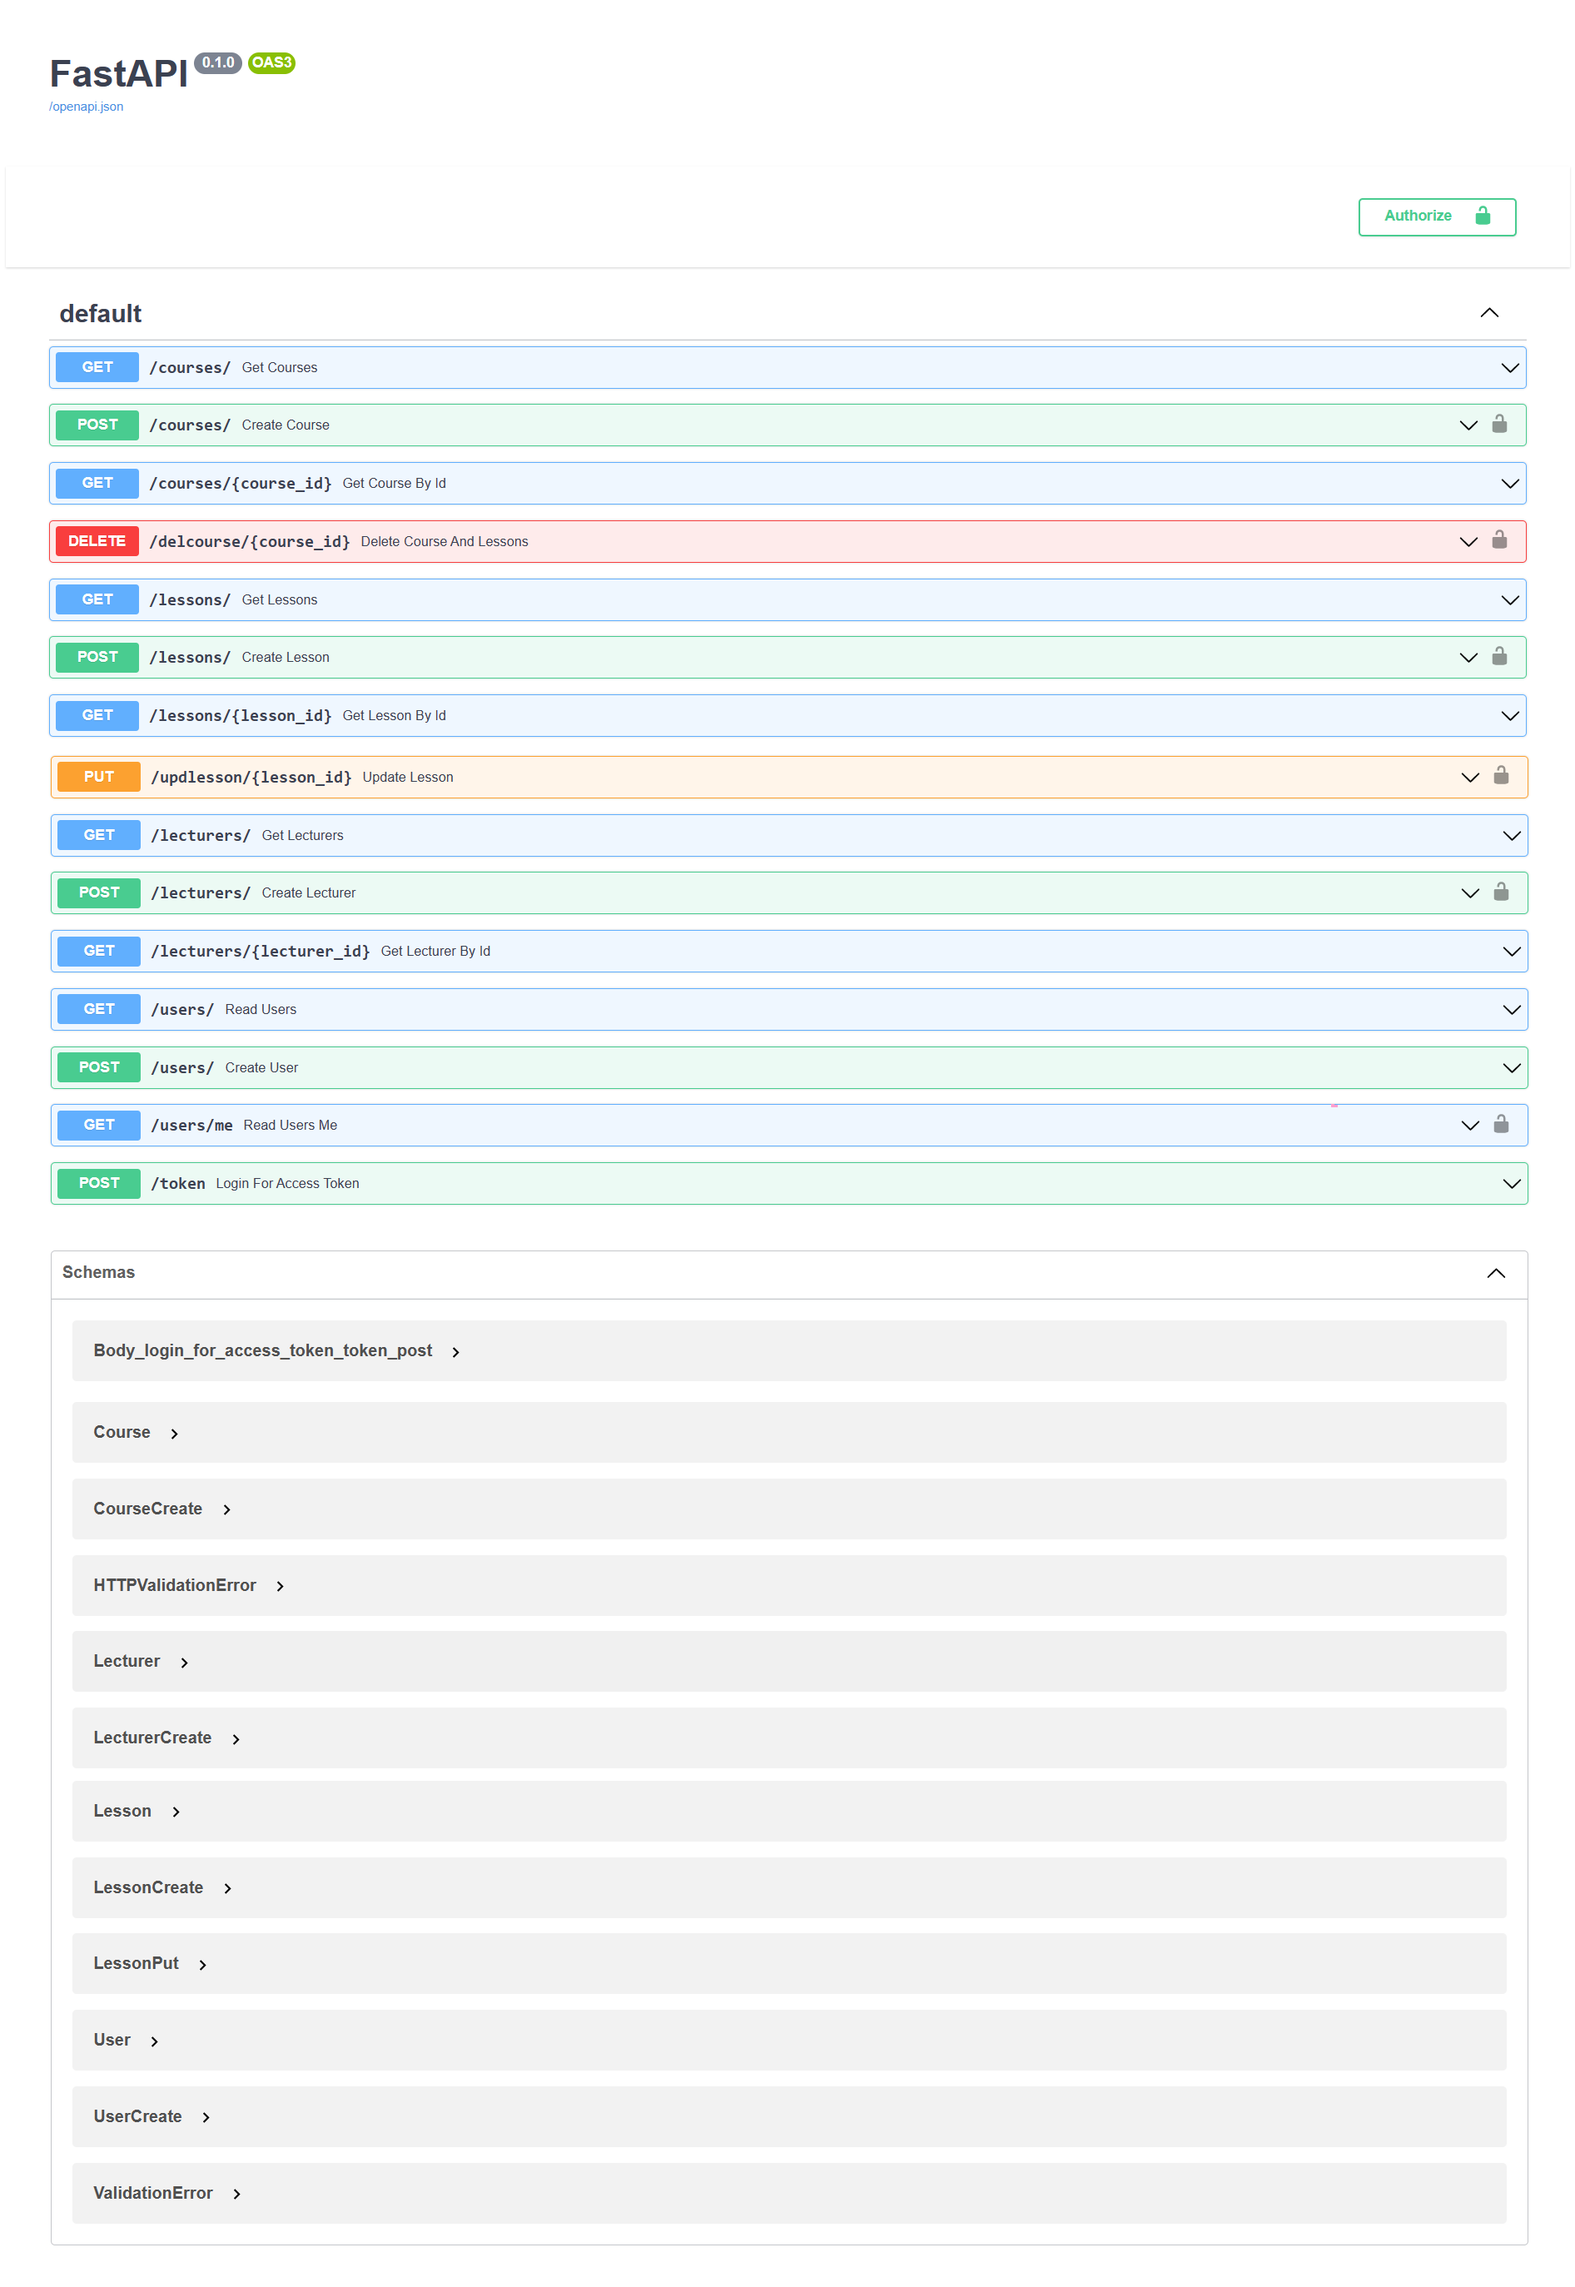
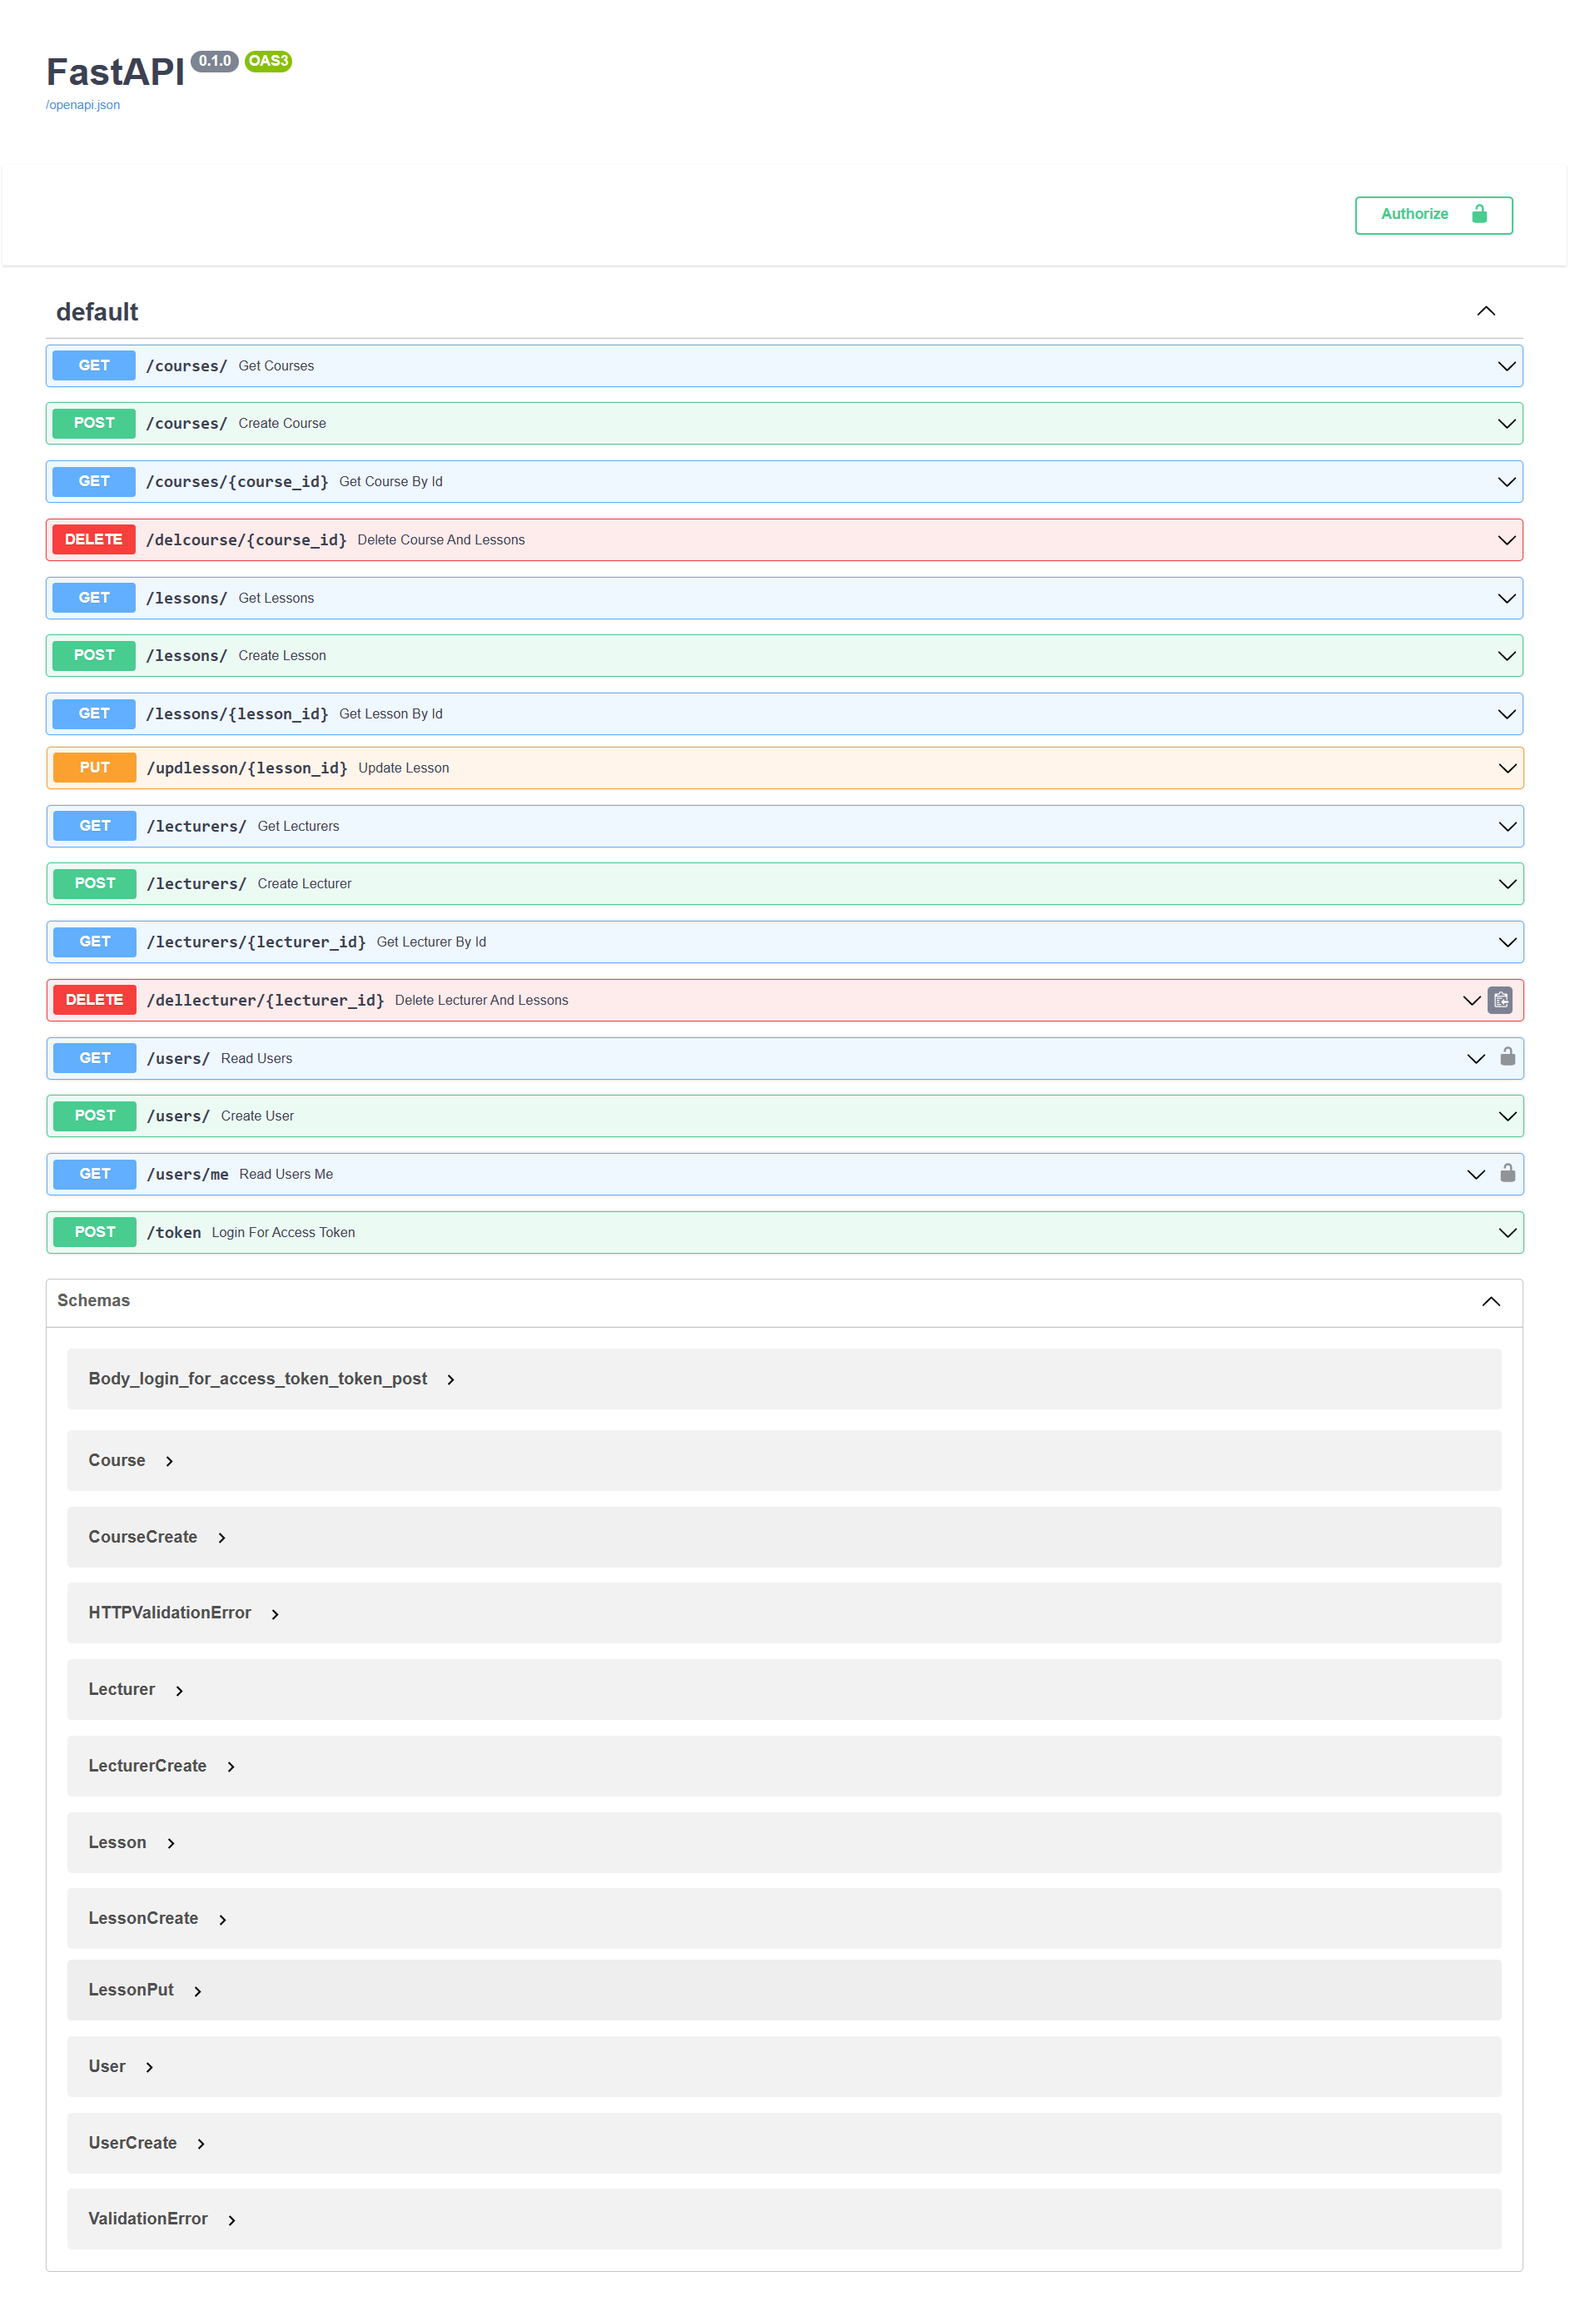
added tests with pytest + extra screenshots

diff --git a/myproject/test_main.py b/myproject/test_main.py
@@ -1,0 +1,189 @@
+import time
+
+import requests
+import json
+
+
+# ------------------- TEST GET - REQUESTS -----------------------
+def test_get_courses():
+    response = requests.get('http://127.0.0.1:8000/courses')
+    assert response.status_code == 200
+
+
+def test_get_courses_with_id():
+    response = requests.get('http://127.0.0.1:8000/courses/1')
+    assert response.status_code == 200
+    response_dict = response.json()
+    assert type(response_dict["name_course"]) == str
+    assert type(response_dict["lessons"]) == list
+
+
+def test_get_courses_with_wrong_id():
+    response = requests.get('http://127.0.0.1:8000/courses/999')
+    assert response.status_code == 404
+    response_dict = response.json()
+    assert response_dict["detail"] == 'Course not found'
+
+
+def test_get_courses_with_string():
+    response = requests.get('http://127.0.0.1:8000/courses/java')
+    assert response.status_code == 422
+
+
+def test_get_lecturers():
+    response = requests.get('http://127.0.0.1:8000/lecturers')
+    assert response.status_code == 200
+
+
+def test_get_lecturers_with_id():
+    response = requests.get('http://127.0.0.1:8000/lecturers/1')
+    assert response.status_code == 200
+    response_dict = response.json()
+    assert type(response_dict["lecturer"]) == str
+    assert type(response_dict["lessons"]) == list
+
+
+def test_get_lecturers_with_wrong_id():
+    response = requests.get('http://127.0.0.1:8000/lecturers/999')
+    assert response.status_code == 404
+    response_dict = response.json()
+    assert response_dict["detail"] == 'Lecturer not found'
+
+
+def test_get_lecturers_with_string():
+    response = requests.get('http://127.0.0.1:8000/lecturers/Michiel')
+    assert response.status_code == 422
+
+
+def test_get_lessons():
+    response = requests.get('http://127.0.0.1:8000/lessons')
+    assert response.status_code == 200
+
+
+def test_get_lessons_with_id():
+    response = requests.get('http://127.0.0.1:8000/lessons/1')
+    assert response.status_code == 200
+    response_dict = response.json()
+    assert type(response_dict["it_class"]) == str
+    assert type(response_dict["course_id"]) == int
+    assert type(response_dict["lecturer_id"]) == int
+
+
+def test_get_lessons_with_wrong_id():
+    response = requests.get('http://127.0.0.1:8000/lessons/999')
+    assert response.status_code == 404
+    response_dict = response.json()
+    assert response_dict["detail"] == 'Lesson not found'
+
+
+def test_get_lessons_with_string():
+    response = requests.get('http://127.0.0.1:8000/lessons/tweede')
+    assert response.status_code == 422
+
+
+# ------------------- TEST POST - REQUESTS -----------------------
+
+def test_post_course():
+    db_course = {'name_course': 'test_course'}
+    response = requests.post('http://127.0.0.1:8000/courses', data=json.dumps(db_course))
+    response_dict = response.json()
+    assert response.status_code == 200
+    assert type(response_dict["name_course"]) == str
+    assert type(response_dict["lessons"]) == list
+
+
+def test_post_lecturer():
+    db_lecturer = {'lecturer': 'test_lecturer'}
+    response = requests.post('http://127.0.0.1:8000/lecturers', data=json.dumps(db_lecturer))
+    response_dict = response.json()
+    assert response.status_code == 200
+    assert type(response_dict["lecturer"]) == str
+    assert type(response_dict["lessons"]) == list
+
+
+def test_post_lesson():
+    response1 = requests.get('http://127.0.0.1:8000/courses')
+    course_id = len(response1.json())
+    response2 = requests.get('http://127.0.0.1:8000/lecturers')
+    lecturer_id = len(response2.json())
+    db_lesson = {
+        'it_class': 'TEST',
+        'course_id': course_id,
+        'lecturer_id': lecturer_id
+    }
+    response3 = requests.post('http://127.0.0.1:8000/lessons', data=json.dumps(db_lesson))
+    response_dict = response3.json()
+    assert response3.status_code == 200
+    assert type(response_dict["it_class"]) == str
+    assert type(response_dict["course_id"]) == int
+    assert type(response_dict["lecturer_id"]) == int
+
+
+# ------------------- TEST PUT - REQUESTS -----------------------
+
+def test_put_lesson():
+    response1 = requests.get('http://127.0.0.1:8000/lessons')
+    lesson_id = len(response1.json())
+    response2 = requests.get('http://127.0.0.1:8000/courses')
+    course_id = len(response2.json())
+    response3 = requests.get('http://127.0.0.1:8000/lecturers')
+    lecturer_id = len(response3.json())
+    url = 'http://127.0.0.1:8000/updlesson/' + str(lesson_id)
+    new_lesson = {
+        'it_class': 'new_lesson_test',
+        'course_id': course_id,
+        'lecturer_id': lecturer_id
+    }
+    response4 = requests.put(url, data=json.dumps(new_lesson))
+    response_dict = response4.json()
+    assert response4.status_code == 200
+    assert response_dict["it_class"] == 'new_lesson_test'
+
+
+# ------------------- TEST DELETE - REQUESTS -----------------------
+
+def test_delete_course():
+    response1 = requests.get('http://127.0.0.1:8000/courses')
+    delete_id = len(response1.json())
+    url = 'http://127.0.0.1:8000/delcourse/' + str(delete_id)
+    response2 = requests.delete(url)
+    assert response2.status_code == 200
+    assert response2.content == b'Course and its lessons are deleted'
+
+
+def test_delete_course_wrong_id():
+    url = 'http://127.0.0.1:8000/delcourse/999'
+    response = requests.delete(url)
+    response_dict = response.json()
+    assert response.status_code == 404
+    assert response_dict["detail"] == "Course not found"
+
+
+def test_delete_course_with_string():
+    url = 'http://127.0.0.1:8000/delcourse/java'
+    response = requests.delete(url)
+    assert response.status_code == 422
+
+
+def test_delete_lecturer():
+    response1 = requests.get('http://127.0.0.1:8000/lecturers')
+    delete_id = len(response1.json())
+    url = 'http://127.0.0.1:8000/dellecturer/' + str(delete_id)
+    response2 = requests.delete(url)
+    assert response2.status_code == 200
+    assert response2.content == b'Lecturer and its lessons are deleted'
+
+
+def test_delete_lecturer_wrong_id():
+    url = 'http://127.0.0.1:8000/dellecturer/999'
+    response = requests.delete(url)
+    response_dict = response.json()
+    assert response.status_code == 404
+    assert response_dict["detail"] == "Lecturer not found"
+
+
+def test_delete_lecturer_with_string():
+    url = 'http://127.0.0.1:8000/delcourse/Michiel'
+    response = requests.delete(url)
+    response_dict = response.json()
+    assert response.status_code == 422

diff --git a/myproject/main.py b/myproject/main.py
@@ -50,8 +50,10 @@ oauth2_scheme = OAuth2PasswordBearer(tokenUrl="token")
 
 
 @app.post("/courses/", response_model=schemas.Course)
-def create_course(course: schemas.CourseCreate, db: Session = Depends(get_db),
-                  token: str = Depends(oauth2_scheme)):
+def create_course(course: schemas.CourseCreate, db: Session = Depends(get_db)):
+    db_course = crud.get_course_by_name(db, it_course=course.name_course)
+    if db_course:
+        raise HTTPException(status_code=400, detail="Course already created")
     return crud.create_course(db=db, course=course)
 
 
@@ -77,8 +79,7 @@ def get_course_by_id(course_id: int, db: Session = Depends(get_db)):
 #     return db_course
 
 @app.delete("/delcourse/{course_id}", response_model=schemas.Course)
-def delete_course_and_lessons(course_id: int, db: Session = Depends(get_db),
-                              token: str = Depends(oauth2_scheme)):
+def delete_course_and_lessons(course_id: int, db: Session = Depends(get_db)):
     db_course = crud.get_course_by_id(db, course_id=course_id)
     if db_course is None:
         raise HTTPException(status_code=404, detail="Course not found")
@@ -89,8 +90,7 @@ def delete_course_and_lessons(course_id: int, db: Session = Depends(get_db),
 
 
 @app.post("/lessons/", response_model=schemas.Lesson)
-def create_lesson(lesson: schemas.LessonCreate, db: Session = Depends(get_db),
-                  token: str = Depends(oauth2_scheme)):
+def create_lesson(lesson: schemas.LessonCreate, db: Session = Depends(get_db)):
     return crud.create_lesson(db, lesson=lesson)
 
 
@@ -113,7 +113,7 @@ def get_lesson_by_id(lesson_id: int, db: Session = Depends(get_db)):
 
 @app.put("/updlesson/{lesson_id}", response_model=schemas.Lesson)
 def update_lesson(lesson_id: int, lesson: schemas.LessonPut,
-                  db: Session = Depends(get_db), token: str = Depends(oauth2_scheme)):
+                  db: Session = Depends(get_db)):
     db_lesson = crud.get_lesson_by_id(db, lesson_id=lesson_id)
     if db_lesson is None:
         raise HTTPException(status_code=404, detail="Lesson not found")
@@ -124,8 +124,7 @@ def update_lesson(lesson_id: int, lesson: schemas.LessonPut,
 
 
 @app.post("/lecturers/", response_model=schemas.Lecturer)
-def create_lecturer(lecturer: schemas.LecturerCreate, db: Session = Depends(get_db),
-                    token: str = Depends(oauth2_scheme)):
+def create_lecturer(lecturer: schemas.LecturerCreate, db: Session = Depends(get_db)):
     db_lecturer = crud.get_lecturer_by_name(db, lecturer=lecturer.lecturer)
     if db_lecturer:
         raise HTTPException(status_code=400, detail="Lecturer already created")
@@ -146,6 +145,14 @@ def get_lecturer_by_id(lecturer_id: int, db: Session = Depends(get_db)):
     return db_lecturer
 
 
+@app.delete("/dellecturer/{lecturer_id}", response_model=schemas.Lecturer)
+def delete_lecturer_and_lessons(lecturer_id: int, db: Session = Depends(get_db)):
+    db_lecturer = crud.get_lecturer_by_id(db, lecturer_id=lecturer_id)
+    if db_lecturer is None:
+        raise HTTPException(status_code=404, detail="Lecturer not found")
+    return crud.delete_lecturer_and_lessons(db, lecturer_id=lecturer_id)
+
+
 # @app.get("/lecturers/{lecturer}", response_model=schemas.Lecturer)
 # def get_lecturer_by_name(lecturer: str, db: Session = Depends(get_db)):
 #     db_lecturer = crud.get_lecturer_by_name(db, lecturer=lecturer)
@@ -163,7 +170,8 @@ def create_user(user: schemas.UserCreate, db: Session = Depends(get_db)):
 
 
 @app.get("/users/", response_model=list[schemas.User])
-def read_users(skip: int = 0, limit: int = 100, db: Session = Depends(get_db)):
+def read_users(skip: int = 0, limit: int = 100, db: Session = Depends(get_db),
+                    token: str = Depends(oauth2_scheme)):
     users = crud.get_users(db, skip=skip, limit=limit)
     return users
 

diff --git a/myproject/crud.py b/myproject/crud.py
@@ -96,6 +96,16 @@ def create_lecturer(db: Session, lecturer: schemas.LecturerCreate):
     return db_lecturer
 
 
+def delete_lecturer_and_lessons(db: Session, lecturer_id: int):
+    db_lecturer = db.query(models.Lecturer).filter(models.Lecturer.id == lecturer_id)
+    db_lecturer.delete(synchronize_session=False)
+    db_lesson = db.query(models.Lesson).filter(models.Lesson.lecturer_id == lecturer_id)
+    db_lesson.delete(synchronize_session=False)
+    db.commit()
+    return Response(status_code=status.HTTP_200_OK, content="Lecturer and its lessons are deleted")
+
+
+
 # ------------------------------------- USERS --------------------------------------
 
 def get_user(db: Session, user_id: int):
